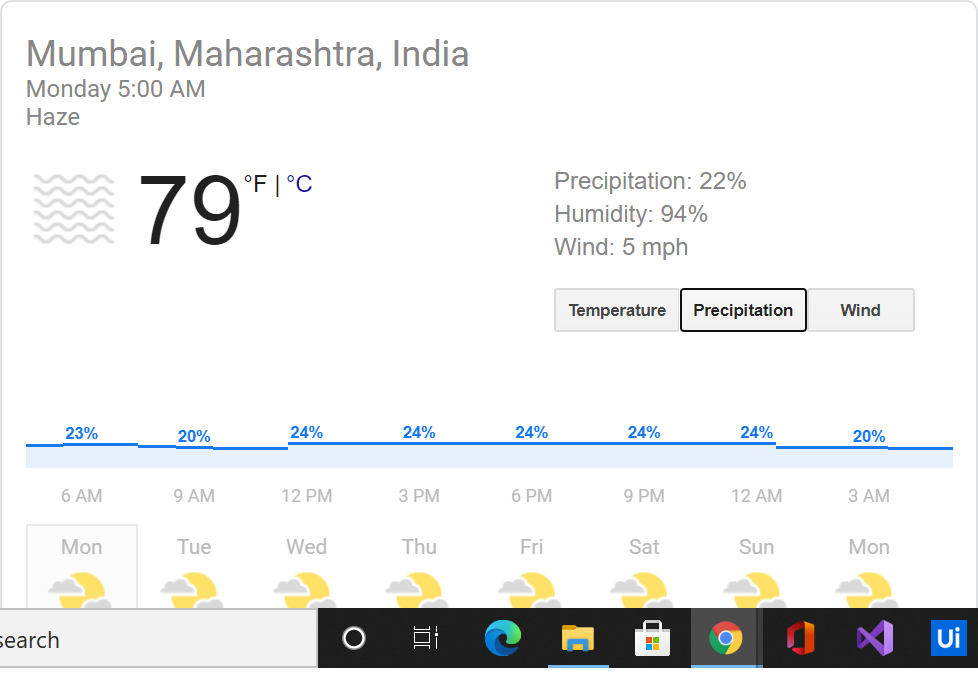
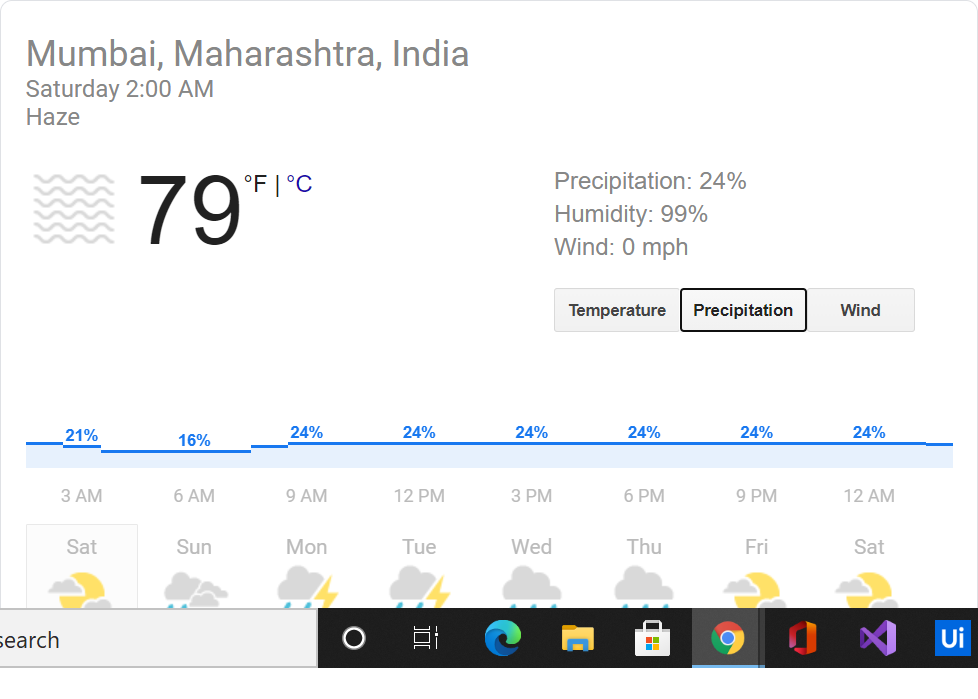
Created Open Browser and Invoked from Main

diff --git a/OpenBrowser.xaml b/OpenBrowser.xaml
@@ -1,0 +1,202 @@
+<Activity mc:Ignorable="sap sap2010" x:Class="OpenBrowser" xmlns="http://schemas.microsoft.com/netfx/2009/xaml/activities" xmlns:mc="http://schemas.openxmlformats.org/markup-compatibility/2006" xmlns:mva="clr-namespace:Microsoft.VisualBasic.Activities;assembly=System.Activities" xmlns:sap="http://schemas.microsoft.com/netfx/2009/xaml/activities/presentation" xmlns:sap2010="http://schemas.microsoft.com/netfx/2010/xaml/activities/presentation" xmlns:scg="clr-namespace:System.Collections.Generic;assembly=mscorlib" xmlns:sco="clr-namespace:System.Collections.ObjectModel;assembly=mscorlib" xmlns:ui="http://schemas.uipath.com/workflow/activities" xmlns:x="http://schemas.microsoft.com/winfx/2006/xaml">
+  <x:Members>
+    <x:Property Name="in_city" Type="InArgument(x:String)" />
+    <x:Property Name="inout_temprature" Type="InOutArgument(ui:Image)" />
+    <x:Property Name="inout_perceiption" Type="InOutArgument(ui:Image)" />
+    <x:Property Name="inout_wind" Type="InOutArgument(ui:Image)" />
+  </x:Members>
+  <mva:VisualBasic.Settings>
+    <x:Null />
+  </mva:VisualBasic.Settings>
+  <sap:VirtualizedContainerService.HintSize>742,1835.33333333333</sap:VirtualizedContainerService.HintSize>
+  <sap2010:WorkflowViewState.IdRef>OpenBrowser_1</sap2010:WorkflowViewState.IdRef>
+  <TextExpression.NamespacesForImplementation>
+    <sco:Collection x:TypeArguments="x:String">
+      <x:String>System.Activities</x:String>
+      <x:String>System.Activities.Statements</x:String>
+      <x:String>System.Activities.Expressions</x:String>
+      <x:String>System.Activities.Validation</x:String>
+      <x:String>System.Activities.XamlIntegration</x:String>
+      <x:String>Microsoft.VisualBasic</x:String>
+      <x:String>Microsoft.VisualBasic.Activities</x:String>
+      <x:String>System</x:String>
+      <x:String>System.Collections</x:String>
+      <x:String>System.Collections.Generic</x:String>
+      <x:String>System.Data</x:String>
+      <x:String>System.Diagnostics</x:String>
+      <x:String>System.Drawing</x:String>
+      <x:String>System.IO</x:String>
+      <x:String>System.Linq</x:String>
+      <x:String>System.Net.Mail</x:String>
+      <x:String>System.Xml</x:String>
+      <x:String>System.Xml.Linq</x:String>
+      <x:String>UiPath.Core</x:String>
+      <x:String>UiPath.Core.Activities</x:String>
+      <x:String>System.Windows.Markup</x:String>
+    </sco:Collection>
+  </TextExpression.NamespacesForImplementation>
+  <TextExpression.ReferencesForImplementation>
+    <sco:Collection x:TypeArguments="AssemblyReference">
+      <AssemblyReference>System.Activities</AssemblyReference>
+      <AssemblyReference>Microsoft.VisualBasic</AssemblyReference>
+      <AssemblyReference>mscorlib</AssemblyReference>
+      <AssemblyReference>System.Data</AssemblyReference>
+      <AssemblyReference>System.Data.DataSetExtensions</AssemblyReference>
+      <AssemblyReference>System</AssemblyReference>
+      <AssemblyReference>System.Drawing</AssemblyReference>
+      <AssemblyReference>System.Core</AssemblyReference>
+      <AssemblyReference>System.Xml</AssemblyReference>
+      <AssemblyReference>System.Xml.Linq</AssemblyReference>
+      <AssemblyReference>PresentationFramework</AssemblyReference>
+      <AssemblyReference>WindowsBase</AssemblyReference>
+      <AssemblyReference>PresentationCore</AssemblyReference>
+      <AssemblyReference>System.Xaml</AssemblyReference>
+      <AssemblyReference>UiPath.System.Activities</AssemblyReference>
+      <AssemblyReference>UiPath.UiAutomation.Activities</AssemblyReference>
+    </sco:Collection>
+  </TextExpression.ReferencesForImplementation>
+  <Sequence sap:VirtualizedContainerService.HintSize="527.333333333333,1670.66666666667" sap2010:WorkflowViewState.IdRef="Sequence_3">
+    <sap:WorkflowViewStateService.ViewState>
+      <scg:Dictionary x:TypeArguments="x:String, x:Object">
+        <x:Boolean x:Key="IsExpanded">True</x:Boolean>
+      </scg:Dictionary>
+    </sap:WorkflowViewStateService.ViewState>
+    <ui:OpenBrowser CommunicationMethod="{x:Null}" Hidden="{x:Null}" NewSession="{x:Null}" Private="{x:Null}" UiBrowser="{x:Null}" BrowserType="Chrome" DisplayName="Open Browser" sap:VirtualizedContainerService.HintSize="485.333333333333,1578.66666666667" sap2010:WorkflowViewState.IdRef="OpenBrowser_2" Url="https://www.google.com/">
+      <ui:OpenBrowser.Body>
+        <ActivityAction x:TypeArguments="x:Object">
+          <ActivityAction.Argument>
+            <DelegateInArgument x:TypeArguments="x:Object" Name="ContextTarget" />
+          </ActivityAction.Argument>
+          <Sequence DisplayName="Do" sap:VirtualizedContainerService.HintSize="376,1476" sap2010:WorkflowViewState.IdRef="Sequence_2">
+            <Sequence.Variables>
+              <Variable x:TypeArguments="x:String" Name="folderpath" />
+            </Sequence.Variables>
+            <sap:WorkflowViewStateService.ViewState>
+              <scg:Dictionary x:TypeArguments="x:String, x:Object">
+                <x:Boolean x:Key="IsExpanded">True</x:Boolean>
+              </scg:Dictionary>
+            </sap:WorkflowViewStateService.ViewState>
+            <ui:MaximizeWindow Window="{x:Null}" DisplayName="Maximize Window" sap:VirtualizedContainerService.HintSize="334,22" sap2010:WorkflowViewState.IdRef="MaximizeWindow_1" />
+            <ui:TypeInto AlterIfDisabled="{x:Null}" ClickBeforeTyping="{x:Null}" DelayBefore="{x:Null}" DelayBetweenKeys="{x:Null}" DelayMS="{x:Null}" EmptyField="{x:Null}" SendWindowMessages="{x:Null}" SimulateType="{x:Null}" Activate="True" DisplayName="Type Into 'INPUT'" sap:VirtualizedContainerService.HintSize="334,134" sap2010:WorkflowViewState.IdRef="TypeInto_1" Text="[&quot;Weather in &quot; + in_city+ &quot;[k(enter)]&quot;]">
+              <ui:TypeInto.Target>
+                <ui:Target ClippingRegion="{x:Null}" Element="{x:Null}" Id="0c66df63-3a3c-467a-ac8e-950c9b32731b" InformativeScreenshot="a486e9abce369b8adc7290248fffbecf" Selector="&lt;webctrl tag='INPUT' type='text' /&gt;">
+                  <ui:Target.TimeoutMS>
+                    <InArgument x:TypeArguments="x:Int32" />
+                  </ui:Target.TimeoutMS>
+                  <ui:Target.WaitForReady>
+                    <InArgument x:TypeArguments="ui:WaitForReady" />
+                  </ui:Target.WaitForReady>
+                </ui:Target>
+              </ui:TypeInto.Target>
+              <sap:WorkflowViewStateService.ViewState>
+                <scg:Dictionary x:TypeArguments="x:String, x:Object">
+                  <x:Boolean x:Key="IsExpanded">True</x:Boolean>
+                </scg:Dictionary>
+              </sap:WorkflowViewStateService.ViewState>
+            </ui:TypeInto>
+            <ui:TakeScreenshot WaitBefore="{x:Null}" DisplayName="Take Screenshot Temprature" sap:VirtualizedContainerService.HintSize="334,106" sap2010:WorkflowViewState.IdRef="TakeScreenshot_1" Screenshot="[inout_temprature]">
+              <ui:TakeScreenshot.Target>
+                <ui:Target ClippingRegion="{x:Null}" Element="{x:Null}" Id="2fe3e880-887e-4e3a-bb37-62f320441902" InformativeScreenshot="51c1b4c5205cf10eecaeb18d9da62fe0" Selector="&lt;webctrl id='wob_wc' tag='DIV' /&gt;">
+                  <ui:Target.TimeoutMS>
+                    <InArgument x:TypeArguments="x:Int32" />
+                  </ui:Target.TimeoutMS>
+                  <ui:Target.WaitForReady>
+                    <InArgument x:TypeArguments="ui:WaitForReady" />
+                  </ui:Target.WaitForReady>
+                </ui:Target>
+              </ui:TakeScreenshot.Target>
+              <sap:WorkflowViewStateService.ViewState>
+                <scg:Dictionary x:TypeArguments="x:String, x:Object">
+                  <x:Boolean x:Key="IsExpanded">True</x:Boolean>
+                </scg:Dictionary>
+              </sap:WorkflowViewStateService.ViewState>
+            </ui:TakeScreenshot>
+            <ui:SaveImage DisplayName="Save Image Temprature" FileName="[&quot;Images/&quot; +in_city +&quot; -Temp.PNG&quot;]" sap:VirtualizedContainerService.HintSize="334,92" sap2010:WorkflowViewState.IdRef="SaveImage_1" Image="[inout_temprature]">
+              <sap:WorkflowViewStateService.ViewState>
+                <scg:Dictionary x:TypeArguments="x:String, x:Object">
+                  <x:Boolean x:Key="IsExpanded">True</x:Boolean>
+                </scg:Dictionary>
+              </sap:WorkflowViewStateService.ViewState>
+            </ui:SaveImage>
+            <ui:Click AlterIfDisabled="{x:Null}" DelayBefore="{x:Null}" DelayMS="{x:Null}" SendWindowMessages="{x:Null}" SimulateClick="{x:Null}" ClickType="CLICK_SINGLE" DisplayName="Click Percipitation" sap:VirtualizedContainerService.HintSize="334,106" sap2010:WorkflowViewState.IdRef="Click_1" KeyModifiers="None" MouseButton="BTN_LEFT">
+              <ui:Click.CursorPosition>
+                <ui:CursorPosition Position="Center">
+                  <ui:CursorPosition.OffsetX>
+                    <InArgument x:TypeArguments="x:Int32" />
+                  </ui:CursorPosition.OffsetX>
+                  <ui:CursorPosition.OffsetY>
+                    <InArgument x:TypeArguments="x:Int32" />
+                  </ui:CursorPosition.OffsetY>
+                </ui:CursorPosition>
+              </ui:Click.CursorPosition>
+              <ui:Click.Target>
+                <ui:Target ClippingRegion="{x:Null}" Element="{x:Null}" Id="c9504fdd-4006-4318-b665-5f39e8184920" InformativeScreenshot="a13fd075400e6138f9437cd4dddd6735" Selector="&lt;webctrl aria-role='button' id='wob_rain' tag='DIV' /&gt;">
+                  <ui:Target.TimeoutMS>
+                    <InArgument x:TypeArguments="x:Int32" />
+                  </ui:Target.TimeoutMS>
+                  <ui:Target.WaitForReady>
+                    <InArgument x:TypeArguments="ui:WaitForReady" />
+                  </ui:Target.WaitForReady>
+                </ui:Target>
+              </ui:Click.Target>
+            </ui:Click>
+            <ui:TakeScreenshot WaitBefore="{x:Null}" DisplayName="Take Screenshot Percipitation" sap:VirtualizedContainerService.HintSize="334,106" sap2010:WorkflowViewState.IdRef="TakeScreenshot_2" Screenshot="[inout_perceiption]">
+              <ui:TakeScreenshot.Target>
+                <ui:Target ClippingRegion="{x:Null}" Element="{x:Null}" Id="7f02e758-ce9b-4607-8d10-1e5c48e5db9a" InformativeScreenshot="a3abd6f3176195539f1bfd033fbbdd68" Selector="&lt;webctrl id='wob_wc' tag='DIV' /&gt;">
+                  <ui:Target.TimeoutMS>
+                    <InArgument x:TypeArguments="x:Int32" />
+                  </ui:Target.TimeoutMS>
+                  <ui:Target.WaitForReady>
+                    <InArgument x:TypeArguments="ui:WaitForReady" />
+                  </ui:Target.WaitForReady>
+                </ui:Target>
+              </ui:TakeScreenshot.Target>
+            </ui:TakeScreenshot>
+            <ui:SaveImage DisplayName="Save Image Percipitation" FileName="[&quot;Images/&quot; +in_city  +&quot; -Precipitation.PNG&quot;]" sap:VirtualizedContainerService.HintSize="334,92" sap2010:WorkflowViewState.IdRef="SaveImage_2" Image="[inout_perceiption]" />
+            <ui:Click AlterIfDisabled="{x:Null}" DelayBefore="{x:Null}" DelayMS="{x:Null}" SendWindowMessages="{x:Null}" SimulateClick="{x:Null}" ClickType="CLICK_SINGLE" DisplayName="Click Wind" sap:VirtualizedContainerService.HintSize="334,106" sap2010:WorkflowViewState.IdRef="Click_2" KeyModifiers="None" MouseButton="BTN_LEFT">
+              <ui:Click.CursorPosition>
+                <ui:CursorPosition Position="Center">
+                  <ui:CursorPosition.OffsetX>
+                    <InArgument x:TypeArguments="x:Int32" />
+                  </ui:CursorPosition.OffsetX>
+                  <ui:CursorPosition.OffsetY>
+                    <InArgument x:TypeArguments="x:Int32" />
+                  </ui:CursorPosition.OffsetY>
+                </ui:CursorPosition>
+              </ui:Click.CursorPosition>
+              <ui:Click.Target>
+                <ui:Target ClippingRegion="{x:Null}" Element="{x:Null}" Id="5ac31adb-239d-4bc0-8923-66c52bcc70d7" InformativeScreenshot="5dc4f98f03161137de55fd96c4dd3e94" Selector="&lt;webctrl aria-role='button' id='wob_wind' tag='DIV' /&gt;">
+                  <ui:Target.TimeoutMS>
+                    <InArgument x:TypeArguments="x:Int32" />
+                  </ui:Target.TimeoutMS>
+                  <ui:Target.WaitForReady>
+                    <InArgument x:TypeArguments="ui:WaitForReady" />
+                  </ui:Target.WaitForReady>
+                </ui:Target>
+              </ui:Click.Target>
+            </ui:Click>
+            <ui:TakeScreenshot WaitBefore="{x:Null}" DisplayName="Take Screenshot Wind" sap:VirtualizedContainerService.HintSize="334,106" sap2010:WorkflowViewState.IdRef="TakeScreenshot_3" Screenshot="[inout_wind]">
+              <ui:TakeScreenshot.Target>
+                <ui:Target ClippingRegion="{x:Null}" Element="{x:Null}" Id="ad23b1c2-40f7-486c-8d82-ec56be6141e1" InformativeScreenshot="dfc1c58bc4be21f9c54e060e743f6361" Selector="&lt;webctrl id='wob_wc' tag='DIV' /&gt;">
+                  <ui:Target.TimeoutMS>
+                    <InArgument x:TypeArguments="x:Int32" />
+                  </ui:Target.TimeoutMS>
+                  <ui:Target.WaitForReady>
+                    <InArgument x:TypeArguments="ui:WaitForReady" />
+                  </ui:Target.WaitForReady>
+                </ui:Target>
+              </ui:TakeScreenshot.Target>
+            </ui:TakeScreenshot>
+            <ui:SaveImage DisplayName="Save Image" FileName="[&quot;Images/&quot; +in_city  + &quot; -Wind.PNG&quot;]" sap:VirtualizedContainerService.HintSize="334,92" sap2010:WorkflowViewState.IdRef="SaveImage_3" Image="[inout_wind]" />
+            <ui:CloseTab Browser="{x:Null}" DisplayName="Close Tab" sap:VirtualizedContainerService.HintSize="334,22" sap2010:WorkflowViewState.IdRef="CloseTab_1" />
+          </Sequence>
+        </ActivityAction>
+      </ui:OpenBrowser.Body>
+      <sap:WorkflowViewStateService.ViewState>
+        <scg:Dictionary x:TypeArguments="x:String, x:Object">
+          <x:Boolean x:Key="IsExpanded">True</x:Boolean>
+        </scg:Dictionary>
+      </sap:WorkflowViewStateService.ViewState>
+    </ui:OpenBrowser>
+  </Sequence>
+</Activity>

diff --git a/Main.xaml b/Main.xaml
@@ -1,4 +1,4 @@
-<Activity mc:Ignorable="sap sap2010" x:Class="Main" mva:VisualBasic.Settings="{x:Null}" sap:VirtualizedContainerService.HintSize="730.666666666667,475.333333333333" sap2010:WorkflowViewState.IdRef="ActivityBuilder_1" xmlns="http://schemas.microsoft.com/netfx/2009/xaml/activities" xmlns:mc="http://schemas.openxmlformats.org/markup-compatibility/2006" xmlns:mva="clr-namespace:Microsoft.VisualBasic.Activities;assembly=System.Activities" xmlns:sap="http://schemas.microsoft.com/netfx/2009/xaml/activities/presentation" xmlns:sap2010="http://schemas.microsoft.com/netfx/2010/xaml/activities/presentation" xmlns:scg="clr-namespace:System.Collections.Generic;assembly=mscorlib" xmlns:ui="http://schemas.uipath.com/workflow/activities" xmlns:x="http://schemas.microsoft.com/winfx/2006/xaml">
+<Activity mc:Ignorable="sap sap2010" x:Class="Main" mva:VisualBasic.Settings="{x:Null}" sap:VirtualizedContainerService.HintSize="742,475.333333333333" sap2010:WorkflowViewState.IdRef="ActivityBuilder_1" xmlns="http://schemas.microsoft.com/netfx/2009/xaml/activities" xmlns:mc="http://schemas.openxmlformats.org/markup-compatibility/2006" xmlns:mva="clr-namespace:Microsoft.VisualBasic.Activities;assembly=System.Activities" xmlns:sap="http://schemas.microsoft.com/netfx/2009/xaml/activities/presentation" xmlns:sap2010="http://schemas.microsoft.com/netfx/2010/xaml/activities/presentation" xmlns:scg="clr-namespace:System.Collections.Generic;assembly=mscorlib" xmlns:ui="http://schemas.uipath.com/workflow/activities" xmlns:x="http://schemas.microsoft.com/winfx/2006/xaml">
   <TextExpression.NamespacesForImplementation>
     <scg:List x:TypeArguments="x:String" Capacity="21">
       <x:String>System.Activities</x:String>
@@ -46,6 +46,7 @@
       <AssemblyReference>UiPath.Excel</AssemblyReference>
       <AssemblyReference>UiPath.Mail</AssemblyReference>
       <AssemblyReference>UiPath.CV</AssemblyReference>
+      <AssemblyReference>System.Memory</AssemblyReference>
     </scg:List>
   </TextExpression.ReferencesForImplementation>
   <Sequence sap:VirtualizedContainerService.HintSize="376,310.666666666667" sap2010:WorkflowViewState.IdRef="Sequence_2">
@@ -65,12 +66,20 @@
         <OutArgument x:TypeArguments="x:String">[city]</OutArgument>
       </ui:InputDialog.Result>
     </ui:InputDialog>
-    <ui:InvokeWorkflowFile ContinueOnError="{x:Null}" DisplayName="Invoke OpenBrowser_Workflow workflow" sap:VirtualizedContainerService.HintSize="334,86.6666666666667" sap2010:WorkflowViewState.IdRef="InvokeWorkflowFile_7" UnSafe="False" WorkflowFileName="OpenBrowser_Workflow.xaml">
+    <ui:InvokeWorkflowFile ContinueOnError="{x:Null}" DisplayName="Invoke Open Browser" sap:VirtualizedContainerService.HintSize="334,86.6666666666667" sap2010:WorkflowViewState.IdRef="InvokeWorkflowFile_8" UnSafe="False" WorkflowFileName="OpenBrowser.xaml">
       <ui:InvokeWorkflowFile.Arguments>
-        <InArgument x:TypeArguments="x:String" x:Key="in_city">[city]</InArgument>
-        <InOutArgument x:TypeArguments="ui:Image" x:Key="inout_temprature">[temprature]</InOutArgument>
-        <InOutArgument x:TypeArguments="ui:Image" x:Key="inout_perceiption">[perceiption]</InOutArgument>
-        <InOutArgument x:TypeArguments="ui:Image" x:Key="inout_wind">[wind]</InOutArgument>
+        <InArgument x:TypeArguments="x:String" x:Key="in_city">
+          <mva:VisualBasicValue x:TypeArguments="x:String" ExpressionText="city" />
+        </InArgument>
+        <InOutArgument x:TypeArguments="ui:Image" x:Key="inout_temprature">
+          <mva:VisualBasicReference x:TypeArguments="ui:Image" ExpressionText="temprature" />
+        </InOutArgument>
+        <InOutArgument x:TypeArguments="ui:Image" x:Key="inout_perceiption">
+          <mva:VisualBasicReference x:TypeArguments="ui:Image" ExpressionText="perceiption" />
+        </InOutArgument>
+        <InOutArgument x:TypeArguments="ui:Image" x:Key="inout_wind">
+          <mva:VisualBasicReference x:TypeArguments="ui:Image" ExpressionText="wind" />
+        </InOutArgument>
       </ui:InvokeWorkflowFile.Arguments>
     </ui:InvokeWorkflowFile>
   </Sequence>
